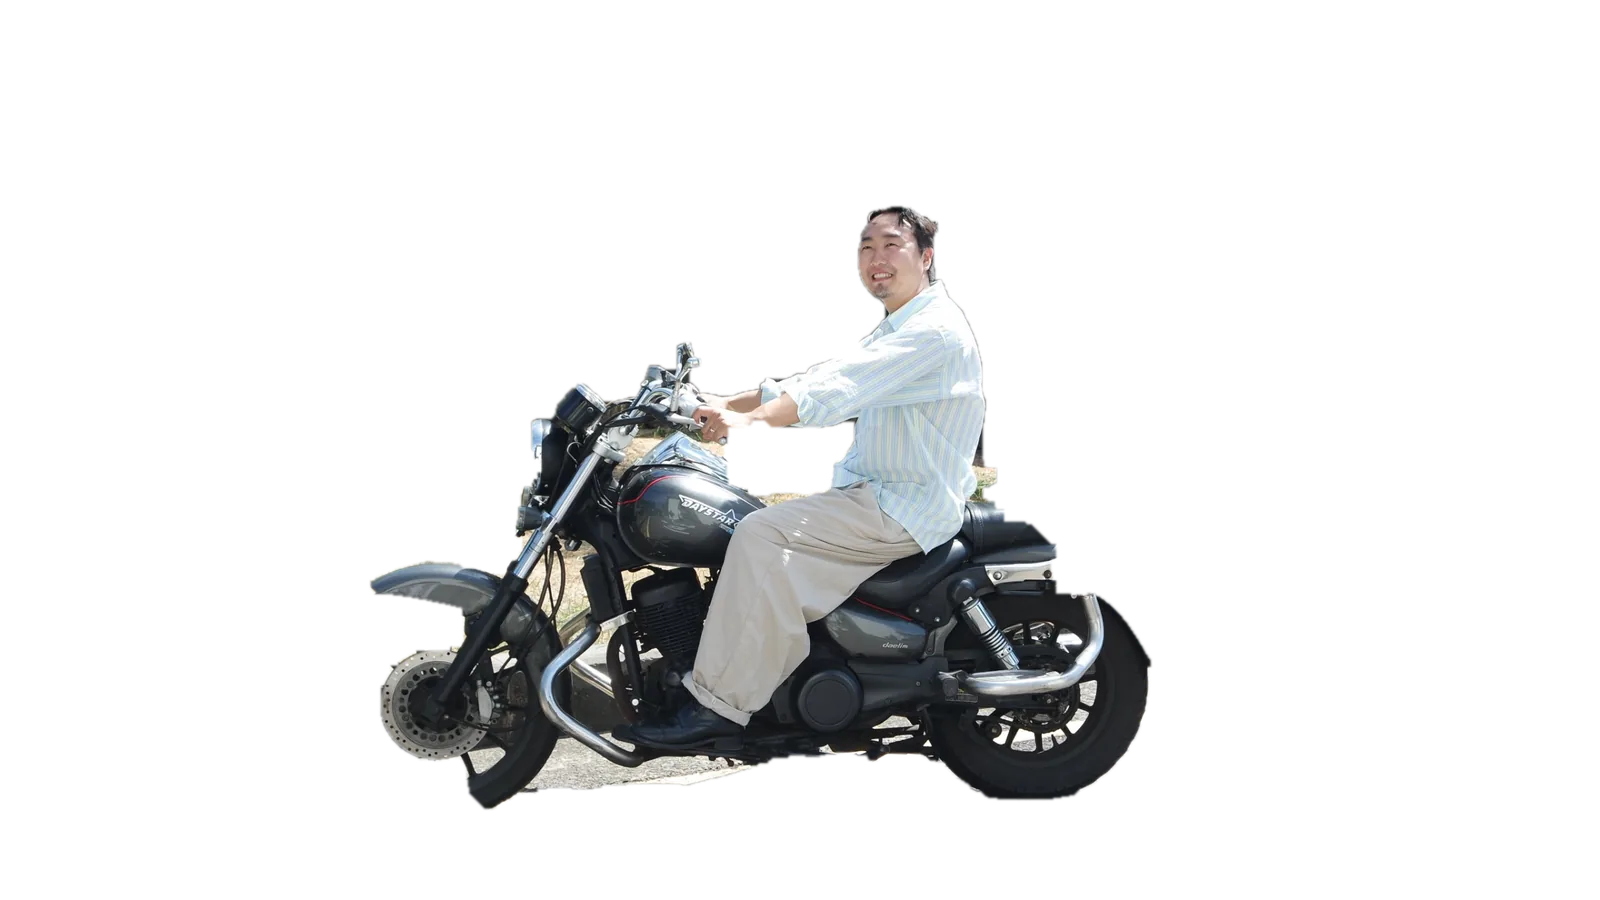
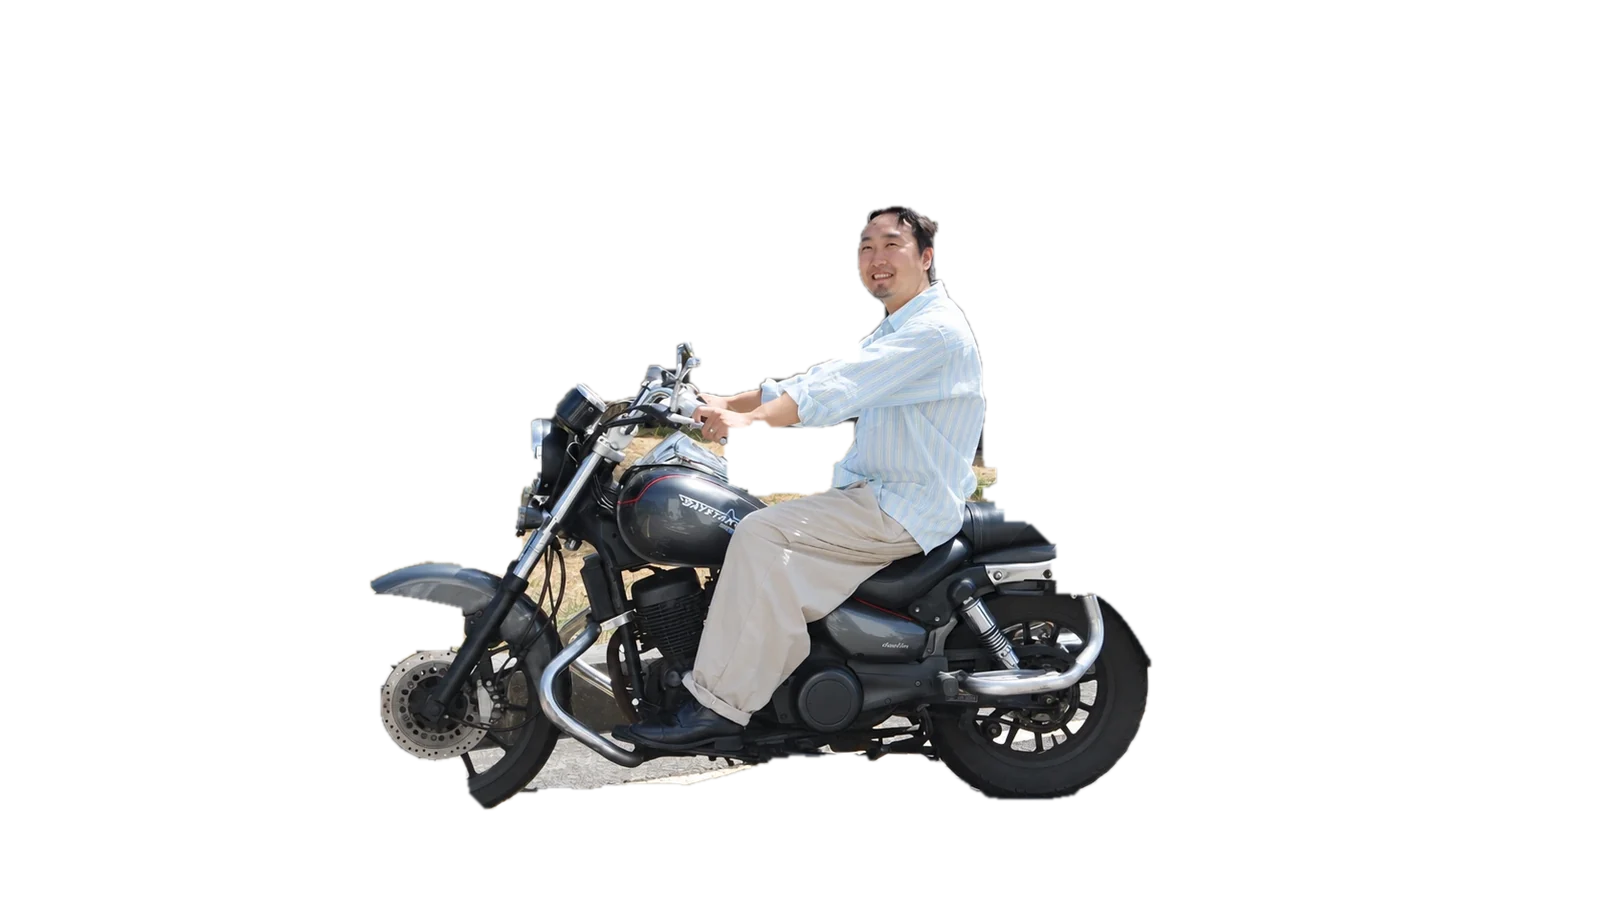
서브메인 백록마케팅 슬라이드 사진: 사용자가 준 밝기 손본 사진으로 (세 언어)
- interview-02-photo.jpg: 보낸 사진(1672×941)을 1600×900으로 (자리 어긋남 0px, 282KB)
- interview-02-cut.webp: 모양은 지금 누끼 그대로, 색만 새 사진에서 (팔·바퀴 누끼 다듬기는 다음 커밋)
- 같은 이름이라 세 언어 서브메인 주소에 ?v=2

diff --git a/public/index.html b/public/index.html
@@ -117,7 +117,7 @@
       <div class="people__list" aria-live="polite">
         <article class="person person--photo" data-tone="photo" aria-labelledby="person-1-name" aria-roledescription="슬라이드" data-index="1">
           <!-- 배경: 팀이 직접 찍은 실사 사진 -->
-          <img class="person__photo" src="images/interview-02-photo.jpg" width="1600" height="900"
+          <img class="person__photo" src="images/interview-02-photo.jpg?v=2" width="1600" height="900"
                alt="백록마케팅 인터뷰 사진: 제주 돌담과 소나무 앞 길가에서 회색 오토바이에 앉아 웃고 있는 사람">
           <header class="person__top">
             <div>
@@ -129,7 +129,7 @@
           <div class="person__center">
             <h3 class="person__name" id="person-1-name"><span class="sr-only">백록마케팅: 나만의 속도로 일하며 살아가는 법</span><span class="person__back" aria-hidden="true"><span class="person__line person__line--back">나만의<br>속도로</span></span><span class="person__front" aria-hidden="true"><span class="person__line person__line--front">일하며<br>살아가는 법</span></span></h3>
             <!-- 인물만 오려 낸 사진: 배경 사진과 똑같은 자리에 겹쳐, 첫 줄 글자가 인물 뒤로 들어가 보이게 -->
-            <img class="person__photo person__cut" src="images/interview-02-cut.webp" width="1600" height="900" alt="">
+            <img class="person__photo person__cut" src="images/interview-02-cut.webp?v=2" width="1600" height="900" alt="">
           </div>
           <div class="person__bottom">
             <p class="person__desc">도시의 치열한 마케팅 현장을 떠나 제주로 향했습니다.<br>이제는 제주의 바람을 가르며, 나만의 보폭과 속도로 일과 삶을 채워갑니다.</p>

diff --git a/public/ja/index.html b/public/ja/index.html
@@ -115,7 +115,7 @@
       <div class="people__glow" aria-hidden="true"></div>
       <div class="people__list" aria-live="polite">
         <article class="person person--photo" data-tone="photo" aria-labelledby="person-1-name" aria-roledescription="スライド" data-index="1">
-          <img class="person__photo" src="../images/interview-02-photo.jpg" width="1600" height="900"
+          <img class="person__photo" src="../images/interview-02-photo.jpg?v=2" width="1600" height="900"
                alt="ペンノク・マーケティングのインタビュー写真：済州の石垣と松の前の道端で、グレーのバイクにまたがって笑う人">
           <header class="person__top">
             <div>
@@ -126,7 +126,7 @@
           </header>
           <div class="person__center">
             <h3 class="person__name" id="person-1-name"><span class="sr-only">ペンノク・マーケティング：自分のペースで働き、暮らすということ</span><span class="person__back" aria-hidden="true"><span class="person__line person__line--back">自分の<br>ペースで</span></span><span class="person__front" aria-hidden="true"><span class="person__line person__line--front">働き、<br>暮らす</span></span></h3>
-            <img class="person__photo person__cut" src="../images/interview-02-cut.webp" width="1600" height="900" alt="">
+            <img class="person__photo person__cut" src="../images/interview-02-cut.webp?v=2" width="1600" height="900" alt="">
           </div>
           <div class="person__bottom">
             <p class="person__desc">都会の熾烈なマーケティングの現場を離れ、済州へ向かいました。<br>今は済州の風を切りながら、自分の歩幅と速さで仕事と暮らしを満たしています。</p>

diff --git a/public/en/index.html b/public/en/index.html
@@ -115,7 +115,7 @@
       <div class="people__glow" aria-hidden="true"></div>
       <div class="people__list" aria-live="polite">
         <article class="person person--photo" data-tone="photo" aria-labelledby="person-1-name" aria-roledescription="slide" data-index="1">
-          <img class="person__photo" src="../images/interview-02-photo.jpg" width="1600" height="900"
+          <img class="person__photo" src="../images/interview-02-photo.jpg?v=2" width="1600" height="900"
                alt="Baengnok Marketing interview photo: a person smiling on a gray motorcycle by a road, in front of a Jeju stone wall and pine trees">
           <header class="person__top">
             <div>
@@ -126,7 +126,7 @@
           </header>
           <div class="person__center">
             <h3 class="person__name" id="person-1-name"><span class="sr-only">Baengnok Marketing: Working and living at my own pace</span><span class="person__back" aria-hidden="true"><span class="person__line person__line--back">At my<br>own pace</span></span><span class="person__front" aria-hidden="true"><span class="person__line person__line--front">Working<br>and living</span></span></h3>
-            <img class="person__photo person__cut" src="../images/interview-02-cut.webp" width="1600" height="900" alt="">
+            <img class="person__photo person__cut" src="../images/interview-02-cut.webp?v=2" width="1600" height="900" alt="">
           </div>
           <div class="person__bottom">
             <p class="person__desc">I left the city's fierce marketing scene and headed for Jeju.<br>Now, riding the island wind, I fill my work and life at my own stride and pace.</p>
